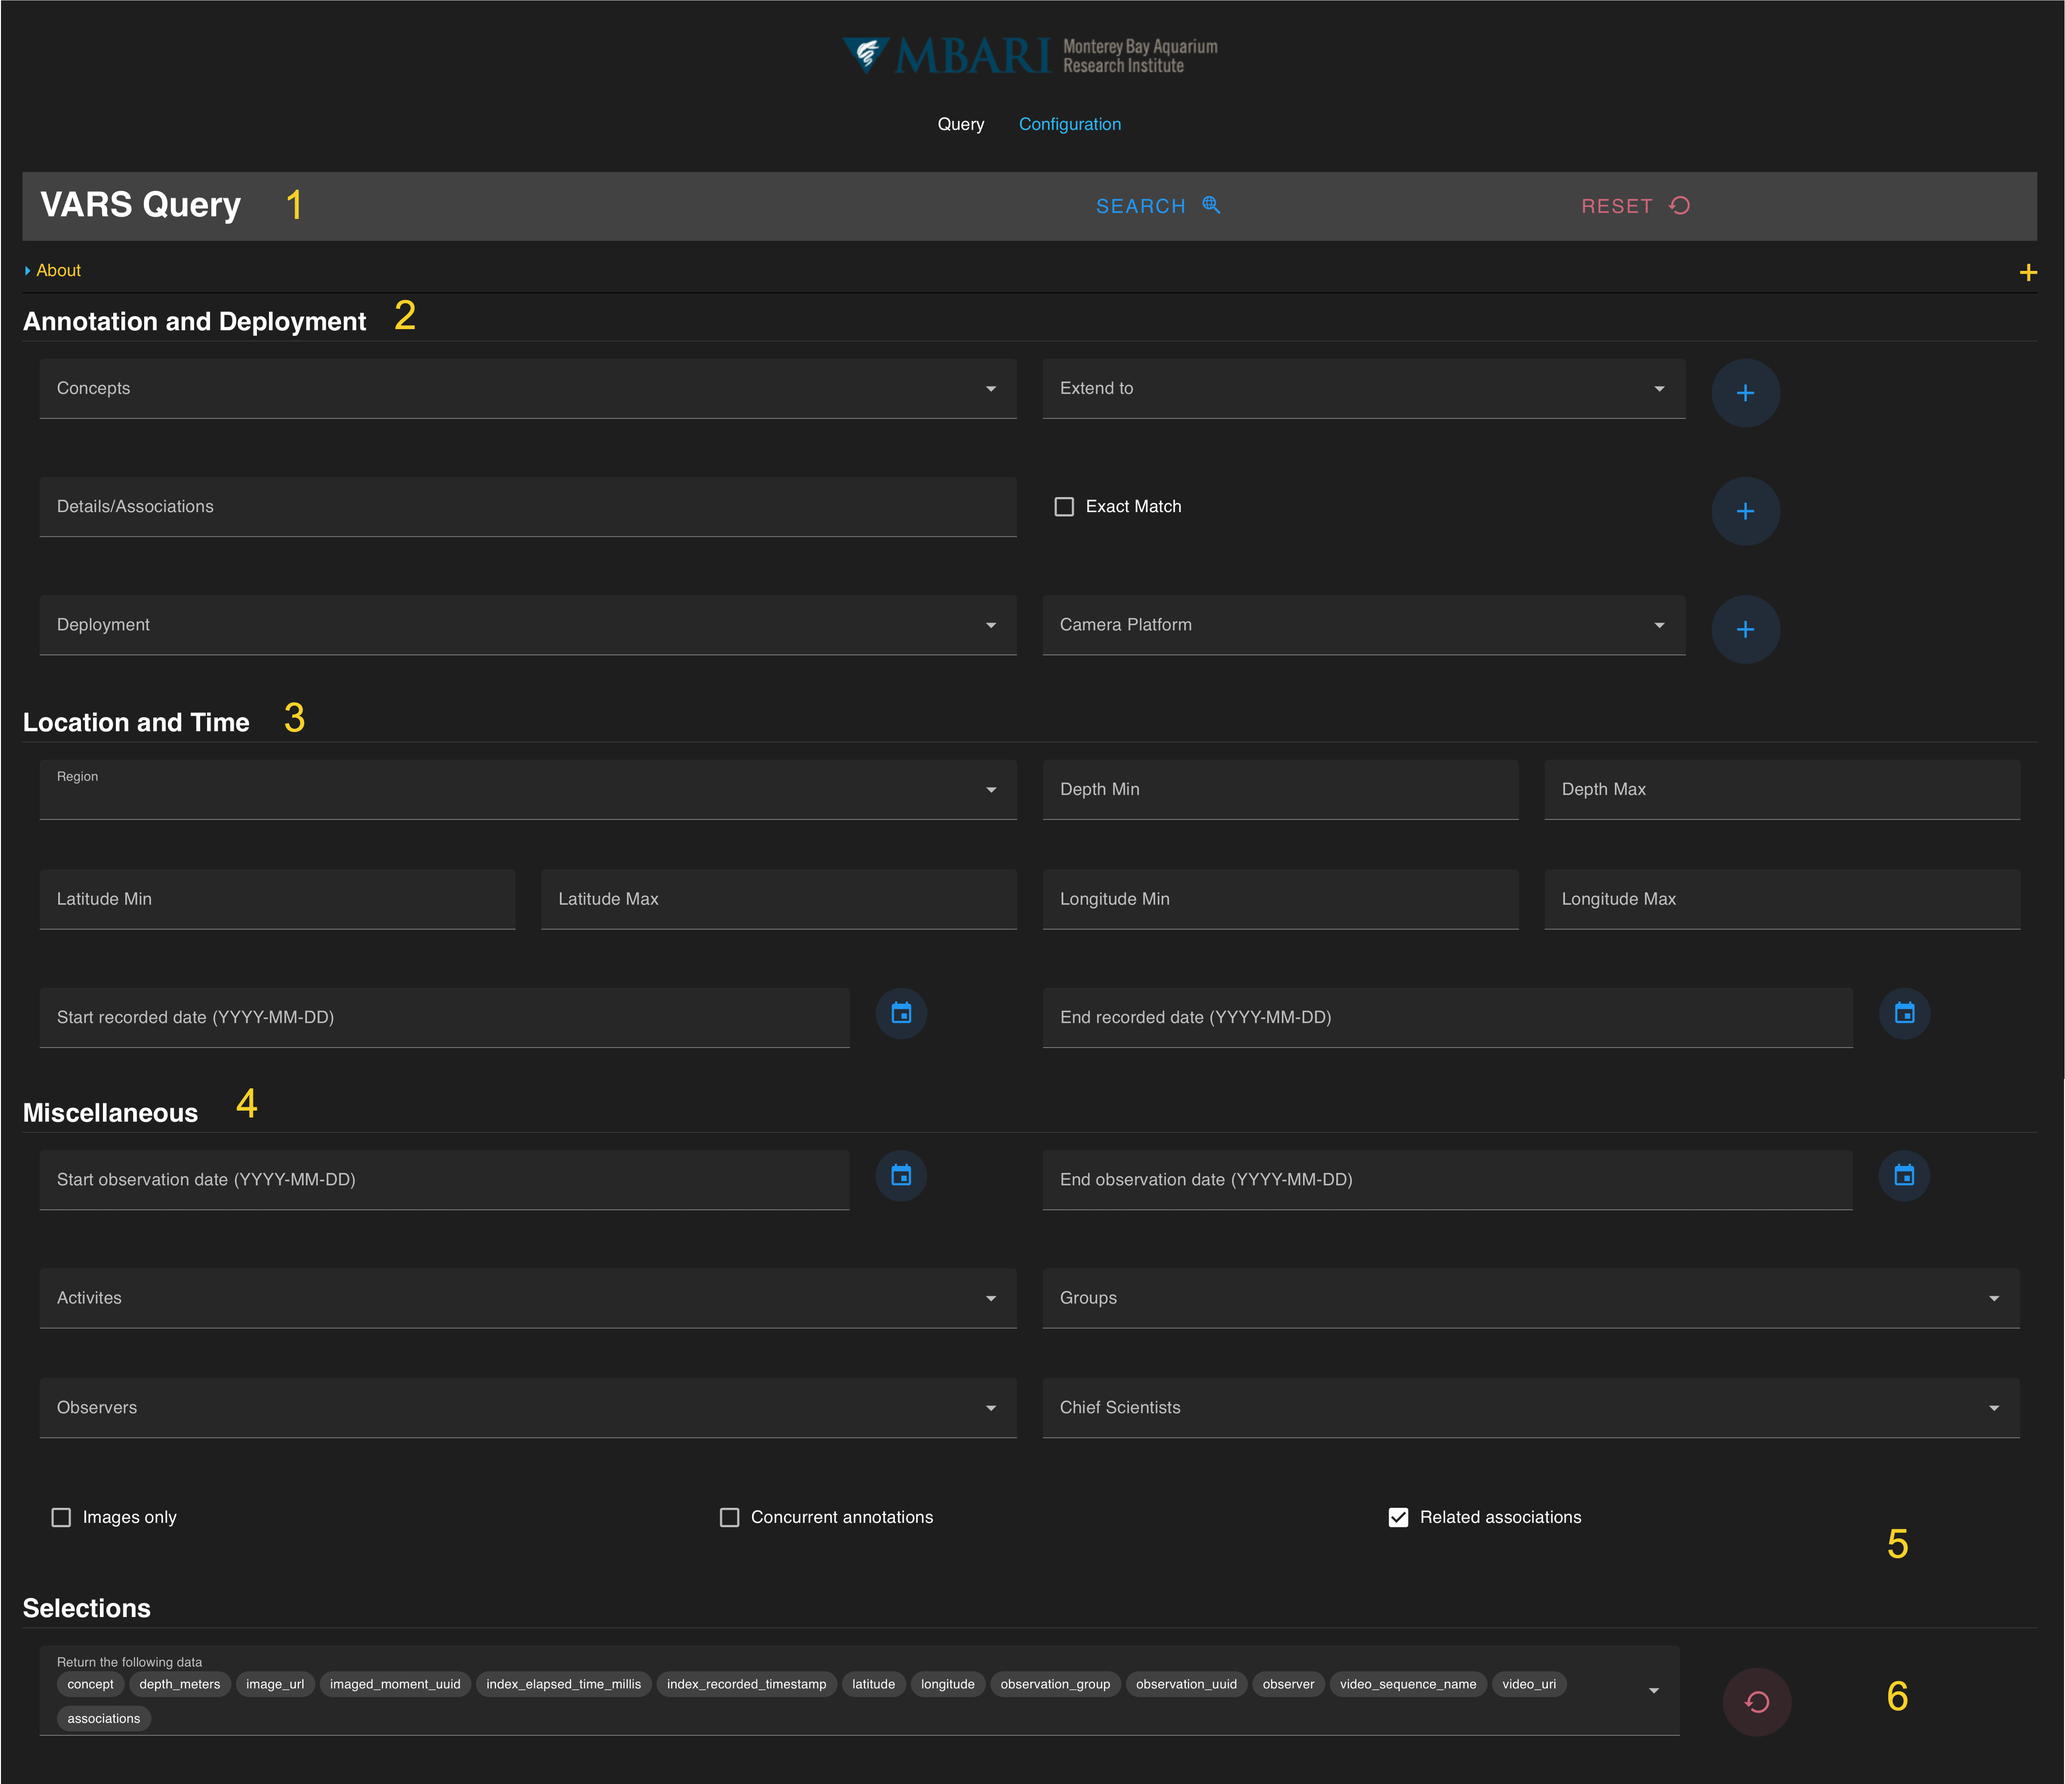
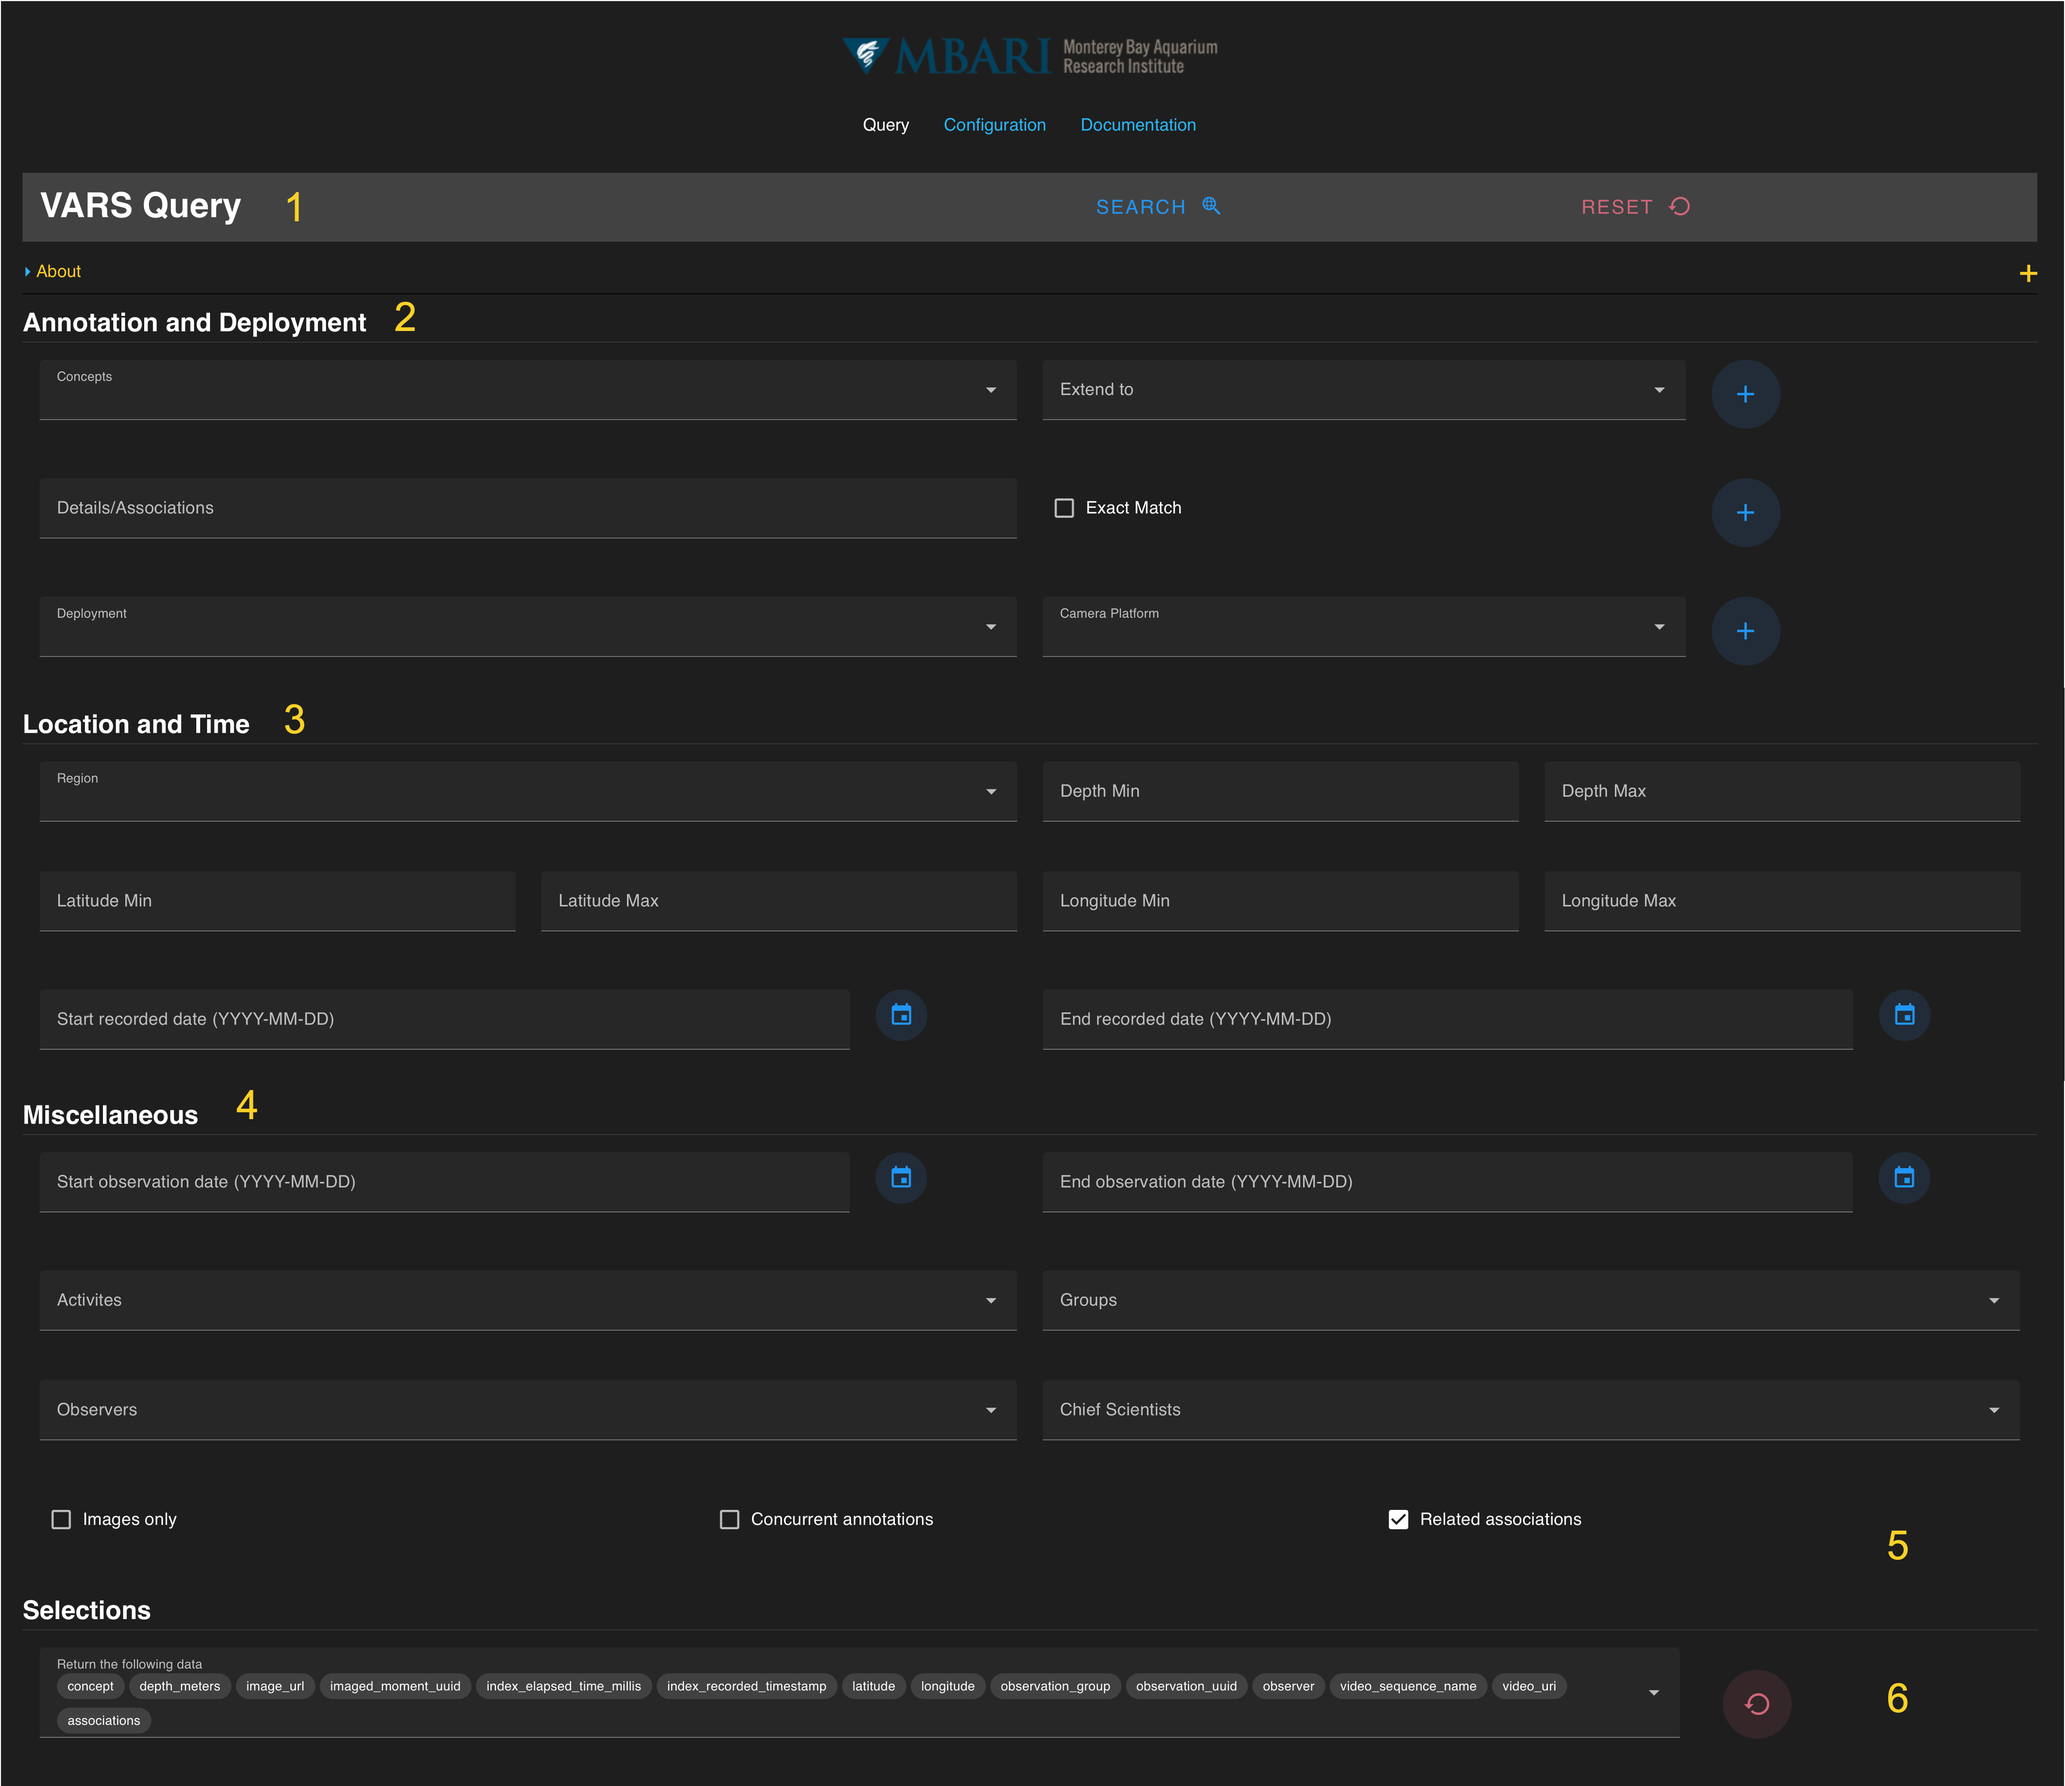
Add Data use navigation

diff --git a/docs/doc_getting_started.md b/docs/doc_getting_started.md
@@ -22,22 +22,22 @@ The VARS query interface uses a series of parameter fields to easily search spec
 -    The <span style="color:#B7606c;">**red **RESET** button**</span> will remove all parameters entered for a query.
 
 <span style="color:#F5c639;">2</span> Annotation and Deployment Parameter Fields
-    -   [Concepts](doc_02_selecting_concept.md) 
-    -   [Associations](doc_03_add_associations.md)
-    -   [Deployments and Camera Platforms](doc_04_add_deployments_cameraplatform.md)
+-    [Concepts](doc_02_selecting_concept.md) 
+-    [Associations](doc_03_add_associations.md)
+-    [Deployments and Camera Platforms](doc_04_add_deployments_cameraplatform.md)
   
 
 <span style="color:#F5c639;">3</span> Location and Time Parameter Fields
--   Location
--   Depth
--   Recorded Date
+-    [Location](doc_05_locations.md)
+-    Depth
+-    Recorded Date
 
 <span style="color:#F5c639;">4</span> Miscellaneous Parameter Fields
--   Observation Date
--   Activities
--   Groups
--   Observers
--   Chief Scientists
+-    Observation Date
+-    Activities
+-    Groups
+-    Observers
+-    Chief Scientists
 
 <span style="color:#F5c639;">5</span> Additional Constraint Selections
 
